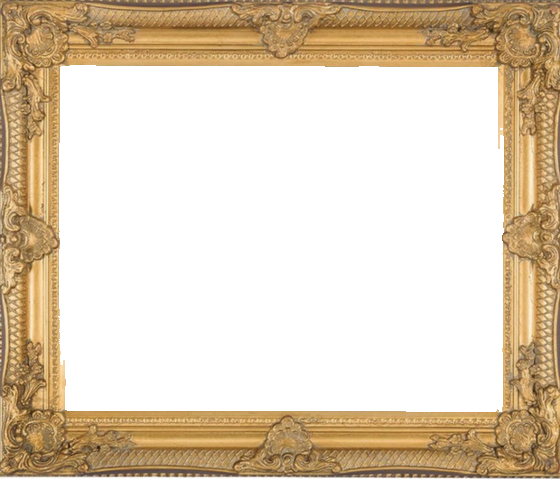
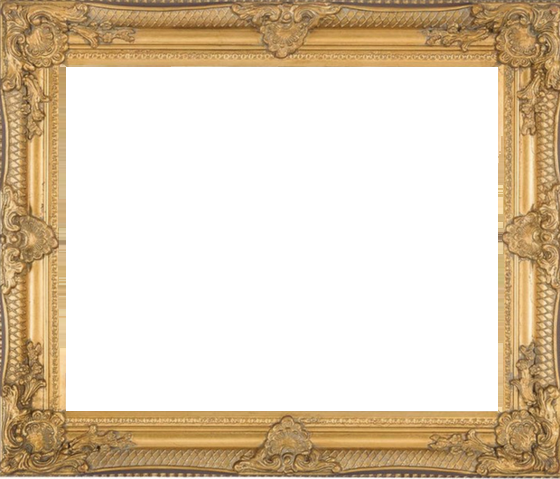
Add files via upload

Changed region(s): [[0.0911, 0.1169, 0.1821, 0.7599], [0.8804, 0.263, 0.9107, 0.8768]]

diff --git a/sw.js b/sw.js
@@ -1,6 +1,6 @@
 // Tandem Service Worker – speichert die App für die Offline-Nutzung.
 // Nach Änderungen an der App die Versionsnummer erhöhen.
-const VERSION = 'tandem-v7';
+const VERSION = 'tandem-v8';
 const FILES = [
   './',
   'advent.jpg',
